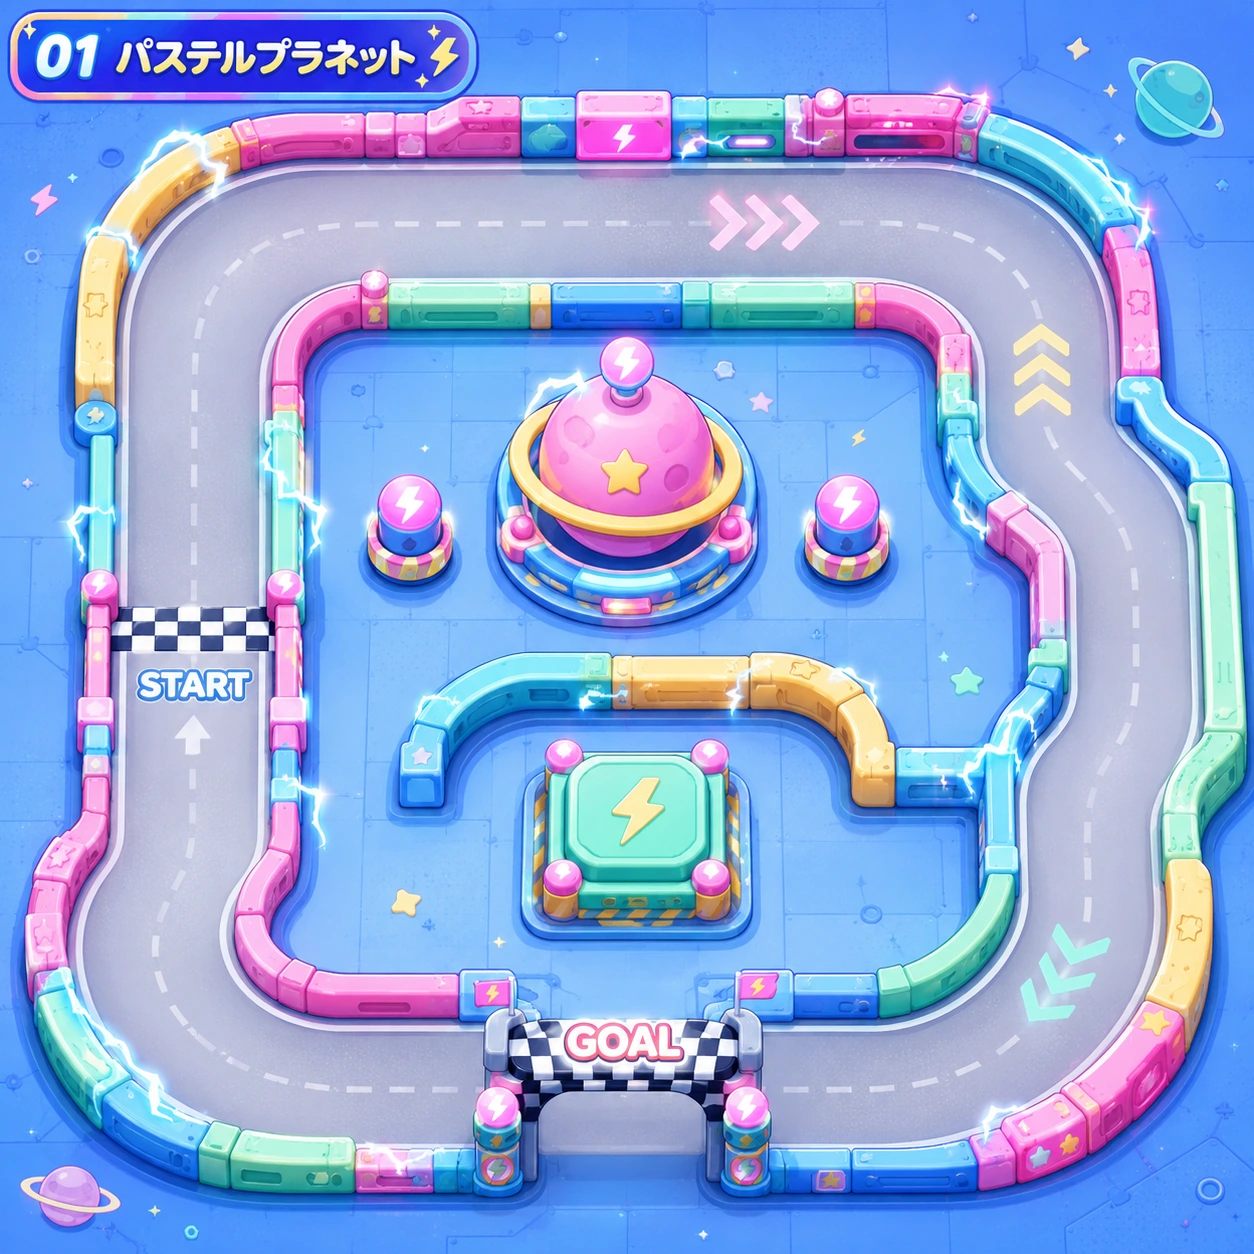
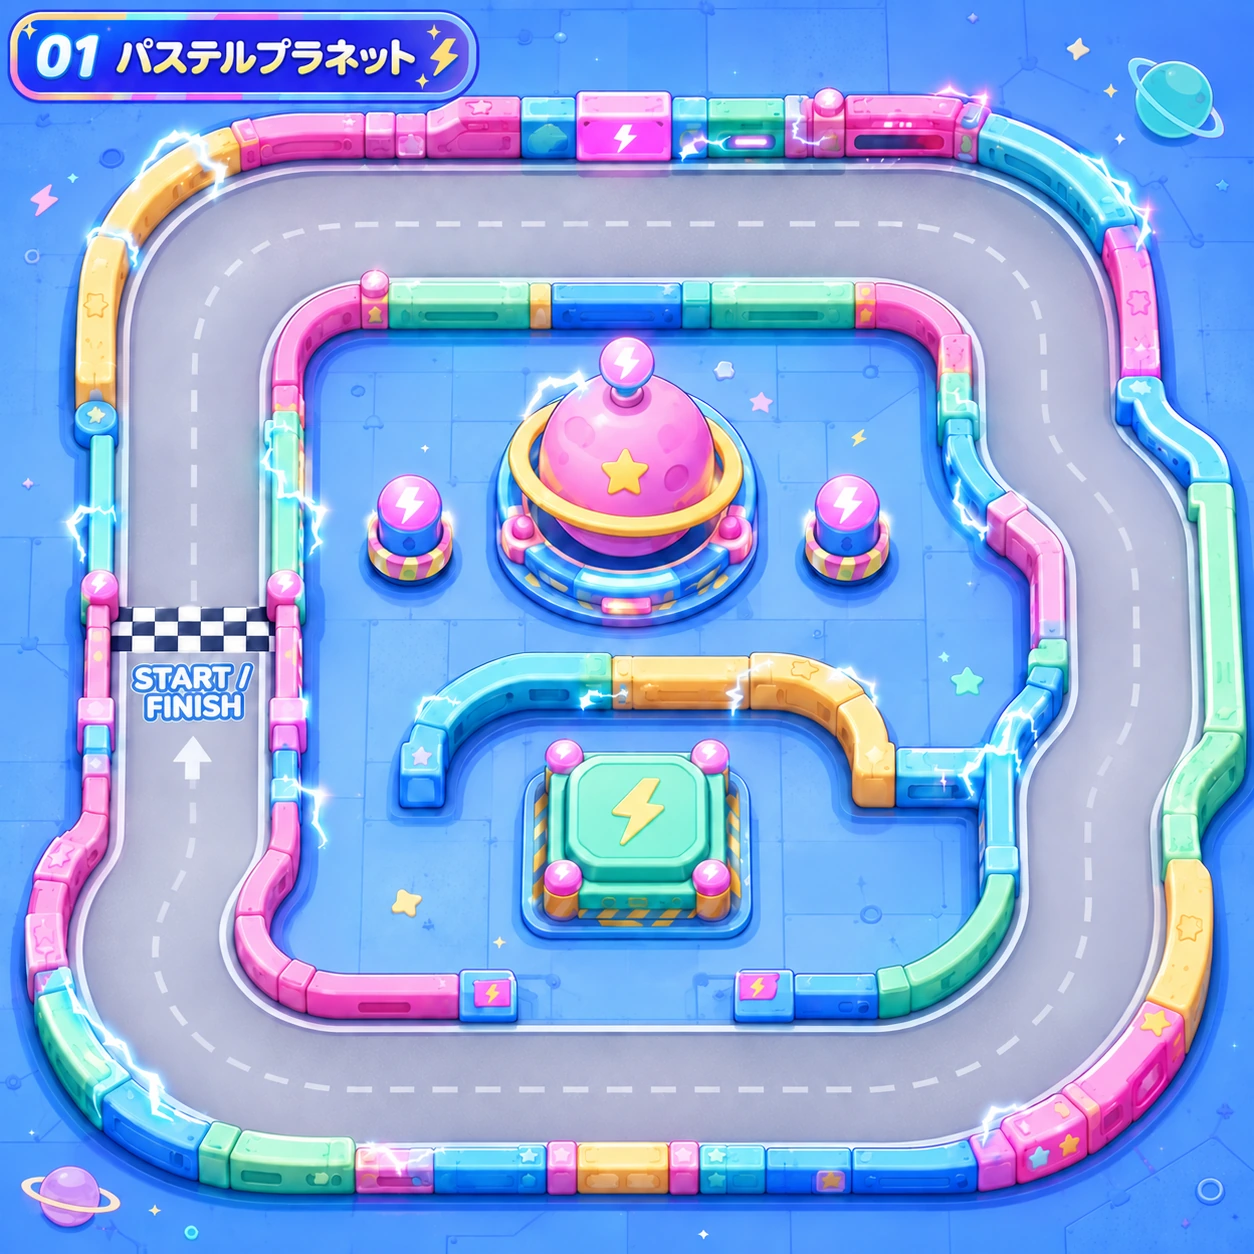
🎨 fix(course): 全コース画像を周回用に再生成し旧出口の判定を閉じる

diff --git a/src/game/tracks.ts b/src/game/tracks.ts
@@ -9,7 +9,6 @@ const definitions: readonly TrackDefinition[] = [
     speed: 195,
     grip: 7,
     wallRise: 15,
-    routeSign: [624, 1043],
     lapAnchor: [500, 600],
     points: [
       [193, 722],
@@ -68,8 +67,6 @@ const definitions: readonly TrackDefinition[] = [
       [929, 1144],
       [764, 1153],
       [708, 1153],
-      [708, 1207],
-      [540, 1207],
       [540, 1153],
       [302, 1153],
       [225, 1119],
@@ -120,7 +117,6 @@ const definitions: readonly TrackDefinition[] = [
     speed: 205,
     grip: 7,
     wallRise: 15,
-    routeSign: [955, 999],
     lapAnchor: [500, 600],
     points: [
       [195, 532],
@@ -170,10 +166,8 @@ const definitions: readonly TrackDefinition[] = [
       [1168, 935],
       [1130, 962],
       [1070, 973],
-      [1031, 1003],
-      [1036, 1250],
-      [878, 1250],
-      [876, 1040],
+      [1031, 977],
+      [876, 980],
       [612, 1040],
       [552, 1000],
       [503, 977],
@@ -223,7 +217,6 @@ const definitions: readonly TrackDefinition[] = [
     speed: 168,
     grip: 8,
     wallRise: 15,
-    routeSign: [1015, 1020],
     lapAnchor: [330, 600],
     points: [
       [167, 554],
@@ -323,11 +316,9 @@ const definitions: readonly TrackDefinition[] = [
       [1152, 888],
       [1172, 948],
       [1172, 1031],
-      [1144, 1064],
-      [1100, 1076],
-      [1100, 1178],
-      [947, 1178],
-      [945, 1125],
+      [1144, 1084],
+      [1100, 1114],
+      [945, 1150],
       [864, 1140],
       [825, 1156],
       [765, 1152],
@@ -401,7 +392,6 @@ const definitions: readonly TrackDefinition[] = [
     speed: 182,
     grip: 3.3,
     wallRise: 0,
-    routeSign: [603, 1032],
     lapAnchor: [350, 600],
     points: [
       [202, 612],
@@ -470,8 +460,6 @@ const definitions: readonly TrackDefinition[] = [
       [1056, 1145],
       [945, 1159],
       [708, 1154],
-      [705, 1245],
-      [511, 1245],
       [511, 1155],
       [247, 1130],
       [157, 1082],
@@ -585,7 +573,6 @@ const definitions: readonly TrackDefinition[] = [
     speed: 178,
     grip: 7,
     wallRise: 15,
-    routeSign: [914, 1077],
     lapAnchor: [300, 600],
     points: [
       [190, 609],
@@ -652,8 +639,6 @@ const definitions: readonly TrackDefinition[] = [
       [1148, 1140],
       [1099, 1159],
       [1009, 1172],
-      [1000, 1244],
-      [829, 1244],
       [829, 1171],
       [265, 1153],
       [187, 1126],

diff --git a/src/game/renderer.ts b/src/game/renderer.ts
@@ -116,7 +116,6 @@ export class Renderer {
     c.scale(this.cam.zoom, this.cam.zoom);
     c.translate(-this.cam.x, -this.cam.y);
     c.drawImage(this.assets.courses[t.id]!, 0, 0, 1254, 1254);
-    this.routeSign(c, t.routeSign);
     c.lineCap = 'round';
     for (let a = 110; a < t.length - 100; a += 150) {
       const p = at(t, a);
@@ -144,14 +143,6 @@ export class Renderer {
     c.lineTo(...t.finish.b);
     c.stroke();
     c.shadowBlur = 0;
-    c.fillStyle = '#142c55';
-    c.font = '900 15px system-ui';
-    c.textAlign = 'center';
-    const fx = (t.finish.a[0] + t.finish.b[0]) / 2,
-      fy = t.finish.a[1];
-    c.fillRect(fx - 85, fy - 42, 170, 25);
-    c.fillStyle = '#e8ff59';
-    c.fillText('START / FINISH', fx, fy - 24);
     for (const r of s.racers) {
       const trail = this.trails.get(r.id) ?? [];
       if (dt > 0 && s.phase === 'racing' && !r.respawn && !r.shock) {
@@ -184,7 +175,6 @@ export class Renderer {
     m.drawImage(this.assets.courses[t.id]!, 0, 0, 180, 180);
     m.save();
     m.scale(180 / 1254, 180 / 1254);
-    this.routeSign(m, t.routeSign);
     m.restore();
     m.strokeStyle = '#e8ff59';
     m.lineWidth = 3;
@@ -207,25 +197,6 @@ export class Renderer {
       m.lineWidth = 2;
       m.stroke();
     }
-  }
-  private routeSign(
-    c: CanvasRenderingContext2D,
-    point: readonly [number, number],
-  ): void {
-    c.save();
-    c.translate(...point);
-    c.fillStyle = '#142c55';
-    c.strokeStyle = '#7ef0ff';
-    c.lineWidth = 4;
-    c.beginPath();
-    c.roundRect(-76, -25, 152, 50, 9);
-    c.fill();
-    c.stroke();
-    c.fillStyle = '#e8ff59';
-    c.textAlign = 'center';
-    c.font = '900 26px system-ui';
-    c.fillText('← LAP', 0, 9);
-    c.restore();
   }
   private racer(r: Racer): void {
     if (r.respawn > 0 && Math.floor(r.respawn * 12) % 2 === 0) return;

diff --git a/tests/e2e/game.spec.ts b/tests/e2e/game.spec.ts
@@ -282,3 +282,31 @@ test('4台の長所短所を選択画面で確認できる', async ({ page }) =>
     await expect(page.locator('#machine-detail')).not.toBeEmpty();
   }
 });
+
+test('周回用の全5コース画像を隠蔽なしで表示する', async ({ page }, info) => {
+  for (const track of TRACKS) {
+    await page.locator(`[data-course="${track.id}"]`).click();
+    const preview = page.locator('#course-preview');
+    await expect(preview).toHaveAttribute(
+      'src',
+      new RegExp(`course-${track.id}.webp`),
+    );
+    await expect
+      .poll(() =>
+        preview.evaluate((img) => {
+          const image = img as HTMLImageElement;
+          return (
+            image.complete &&
+            image.naturalWidth === 1254 &&
+            image.naturalHeight === 1254
+          );
+        }),
+      )
+      .toBe(true);
+    await expect(page.locator('.course-route-overlay')).toHaveCount(0);
+    await page.screenshot({
+      path: info.outputPath(`course-${track.id}.png`),
+      fullPage: true,
+    });
+  }
+});

diff --git a/src/game/main.ts b/src/game/main.ts
@@ -76,10 +76,6 @@ all<HTMLButtonElement>('[data-course]').forEach((button) =>
     const preview = element<HTMLImageElement>('#course-preview');
     preview.src = assetUrl(`course-${selected}.webp`);
     preview.alt = `${track.name}のコース全体`;
-    element('#route-sign-preview').setAttribute(
-      'transform',
-      `translate(${track.routeSign.join(' ')})`,
-    );
     element('#course-name').textContent = track.name;
     element('#course-level').textContent = track.level;
     element('#course-count').textContent = `0${selected + 1} / 05`;

diff --git a/src/styles/game.css b/src/styles/game.css
@@ -1853,13 +1853,6 @@ dialog h2 {
   font-weight: 900;
   text-shadow: 0 1px 2px #163a65;
 }
-.course-route-overlay {
-  position: absolute;
-  inset: 0;
-  width: 100%;
-  height: 100%;
-  pointer-events: none;
-}
 @media (max-width: 650px) {
   .machine-info {
     grid-column: 1/-1;

diff --git a/src/game/types.ts b/src/game/types.ts
@@ -20,7 +20,6 @@ export interface TrackDefinition {
   speed: number;
   grip: number;
   wallRise: number;
-  routeSign: Vec;
   lapAnchor: Vec;
   points: readonly Vec[];
   outer: readonly Vec[];

diff --git a/reports/working/20260905-1200-regenerate-courses.md b/reports/working/20260905-1200-regenerate-courses.md
@@ -1,0 +1,21 @@
+# 全コース画像の周回化
+
+## 指示・要件・判断
+旧GOALを案内板で覆う処置を廃止し、全画像をImageGenで再生成してマップを整合させる。既存5テーマ・左のスタート位置・分岐・道幅を維持し、旧アーチ・柱・外向き出口を自然な道路と外壁へ置換した。生成モードは組み込みImageGenの画像参照編集。生成PNGは1254×1254、WebP quality 92に形式変換して採用した。
+
+## 実施作業
+- 全5コースの画像を置換。左にSTART / FINISHを直接描き、旧ゴール箇所を連続した道路にした。
+- プレビュー・レース・ミニマップのLAP案内板と型・座標・CSSを削除。重複するSTART / FINISHパネルも削除。
+- 全コースの旧出口ポリゴンを閉鎖。シティの下部外壁、キャンディの右下カーブを新しい画像の道路端に合わせた。
+- 画像内の紛らわしい進行矢印を除去。ゲームの案内矢印は実経路から生成する。
+- 旧出口が走行可能領域でないことの5回帰テストと、全コース画像の切替・寸法・隠蔽なしを確認するE2Eを追加。
+
+## 生成プロンプトの要点
+各既存course-N.webpを1枚参照。square top-down CLOSED LAP CIRCUIT、exact framing / road geometry / widths / islands / decorations、REMOVE GOAL arch / pillars / downward exit、reconstruct continuous road sweeping LEFT、close outer guardrail、left checkerboard as START / FINISH、no overlay / minimap / vehicles / HUD / extra exitを指定。パステルは追加編集で色付き逆向き矢印のみ除去。全結果を1254px原寸で目視し、旧アーチ・出口が残っていないことを確認。
+
+## 検証
+ローカル: 型検査・68 unit・coverage・build成功。physics/geometry/sessionの行・関数100%、分岐94%。全5コース×4機種のCPU/プレイヤー相当走行とガーデン別分岐の完走を含む。
+CI E2E・公開画面: 確認中。
+
+## fit・制約
+画像の隠蔽でなく画像そのものを更新した。衝突形状は画像から手動で合わせたポリゴンであり、画像ピクセルからの自動衝突生成ではない。旧出口の閉鎖は回帰テストで検証する。spec-recoveryは新規の仕様復元タスクではないため専用validatorは対象外。

diff --git a/docs/3_設計_DES/DES_001.md b/docs/3_設計_DES/DES_001.md
@@ -8,14 +8,14 @@
 
 | ファイル | コース | 出所 |
 |---|---|---|
-| course-0.webp | パステルプラネット | ユーザー提供コース画像のWebP変換 |
+| course-0.webp | パステルプラネット | 既存画像を参照してImageGenで周回用に再生成しWebP変換 |
 | course-1.webp | ピカピカシティ | 同上 |
 | course-2.webp | キャンディループ | 同上 |
 | course-3.webp | アイスチューブ | 同上 |
 | course-4.webp | サンダーガーデン | 同上 |
 | racers.webp | 4色の機体 | この会話の前サンプル制作時に生成したオリジナル画像 |
 
-参照元: project_sourcesの03/06/16が画面デザイン、04/07/08/14/15がコース画像。カービィ等のキャラクター画像、製品ロゴ、音源は使用しない。押して減速・離して加速する操作の方向性を参考にする。スタート線にSTART / FINISHを描画し、旧出口のGOAL文字には左へ周回を続ける「← LAP」の案内板を重ねる。コース画像自体は変更しない。
+参照元: project_sourcesの03/06/16が画面デザイン、04/07/08/14/15がコース画像。カービィ等のキャラクター画像、製品ロゴ、音源は使用しない。押して減速・離して加速する操作の方向性を参考にする。全5コースはImageGenで旧GOALアーチ・柱・出口を除去し、閉じた外壁と連続道路に再生成した。画像内の左側START / FINISHが共通線。案内板による隠蔽は行わない。描画する進行矢印は物理経路から生成し、外壁ポリゴンは再生成画像の道路端に合わせる。
 
 スクリーンリーダーでの走路認識や実機ゲームパッドの操作性は未検証。レスポンシブとキーボード操作は自動テストと実画面確認の範囲を作業報告に記録する。
 

diff --git a/tasks/do/20260905-1200-regenerate-courses.md b/tasks/do/20260905-1200-regenerate-courses.md
@@ -1,0 +1,11 @@
+# 全コース画像の周回化
+状態: do
+
+## 受け入れ条件
+- [ ] ImageGenで全5コースを再生成し、旧GOALアーチ・出口を自然な連続道路と外壁へ置換する。
+- [ ] 旧ゴールを覆うLAP案内板を全画面から除去する。
+- [ ] 閉じた外壁と当たり判定を合わせ、全コース・全マシンの完走を検証する。
+- [ ] 型・unit・build・E2E・画面確認とPages公開確認を行う。
+
+## 原因・資産・計画
+旧画像の出口を残して周回ルールだけ変更したため、表示と判定が乖離した。案内板では根本解決にならない。public/assets/course-0.webp〜course-4.webp を各々ImageGenで全体再生成。テーマ・走路幅・カメラ・左のスタート位置を保ち、旧アーチ・出口を自然な道路と外壁にする。生成結果を目視してWebPへ形式変換。同時に衝突ポリゴンの旧出口を閉じ、CPU経路と周回判定を検証する。

diff --git a/README.md b/README.md
@@ -54,7 +54,7 @@ Pages設定のSourceは **GitHub Actions**。mainへのpushで型検査、整形
 
 - `src/components` / `src/pages`: Astro UIと静的HTML生成
 - `src/game`: DOM非依存の走行・勝敗、入力、Canvas描画、音声
-- `public/assets`: 提供コースとオリジナルマシン画像
+- `public/assets`: ImageGenで周回用に再生成した5コースとオリジナルマシン画像
 - `tests`: VitestとPlaywright
 - `docs`: 現行仕様・設計・公開手順
 - `tasks` / `reports`: 作業・検証記録
